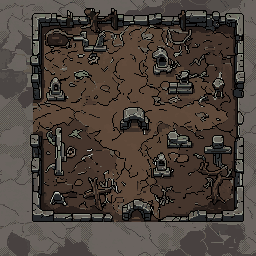
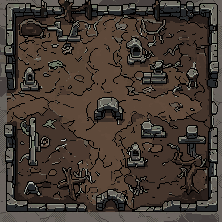
feat(ruinarch+): Mass Grave has its own look (walled burial pit, 4 fill stages)
The structure borrows the Cemetery prefab, so it looked identical to a
Cemetery. A walled-pit sprite is now laid over its floor (above the ground
tilemap, below walls, decorations and characters) and steps through four fill
stages as bodies are laid in it. Art loads via ModArt at gameplay time; the
overlay is removed on destruction and whenever any pooled structure object is
reset, so a real Cemetery reusing the object never shows it. Stage sprites
re-cropped to an aligned walled plot; the unused field texture is dropped.
Verified in-game: overlay present and correctly sorted, absent on a real
Cemetery (offscreen renders).

diff --git a/RuinarchPlus/Phase2/MassGraveLook.cs b/RuinarchPlus/Phase2/MassGraveLook.cs
@@ -1,0 +1,152 @@
+using System;
+using System.IO;
+using HarmonyLib;
+using Inner_Maps.Location_Structures;
+using Ruinarch.ModContent;
+using UnityEngine;
+using UnityEngine.Tilemaps;
+
+namespace RuinarchPlus.Phase2
+{
+	/// <summary>
+	/// The Mass Grave's own look. The structure borrows the Cemetery prefab (footprint,
+	/// walls, pathing), so without this it is indistinguishable from a Cemetery. A sprite of
+	/// a walled burial pit is laid over the structure's ground, and it swaps through four
+	/// fill stages (empty -> full) as bodies are laid in it (<see cref="MassGrave.fillRatio"/>).
+	///
+	/// Art ships as loose PNGs under <c>art/mass_grave/</c> and loads through the framework's
+	/// <see cref="ModArt"/> at gameplay time (never at mod load: no graphics device yet).
+	/// Structure objects are pooled and shared with real Cemeteries, so the overlay is a
+	/// separately named child that is removed on destruction and, as a safety net, whenever
+	/// any structure object is reset for reuse.
+	/// </summary>
+	internal static class MassGraveLook
+	{
+		internal const int FillStages = 4;
+		private const string OverlayName = "RuinarchPlus.MassGraveOverlay";
+		private const float LoadPixelsPerUnit = 100f;
+
+		private static readonly AccessTools.FieldRef<LocationStructureObject, TilemapRenderer> GroundRenderer =
+			AccessTools.FieldRefAccess<LocationStructureObject, TilemapRenderer>("_groundTileMapRenderer");
+
+		private static bool _warned;
+
+		internal static int StageFor(float fillRatio)
+		{
+			return Mathf.Clamp(Mathf.FloorToInt(fillRatio * FillStages), 0, FillStages - 1);
+		}
+
+		private static Sprite StageSprite(int stage)
+		{
+			string path = Path.Combine(RuinarchPlus.ModDir ?? string.Empty, "art", "mass_grave", $"mass_grave_{stage}.png");
+			return ModArt.LoadSprite(path, LoadPixelsPerUnit);
+		}
+
+		/// <summary>Create or update the overlay on <paramref name="pit"/>'s structure object.</summary>
+		internal static void Refresh(MassGrave pit)
+		{
+			try
+			{
+				LocationStructureObject obj = pit.structureObj;
+				if (obj == null || pit.hasBeenDestroyed)
+				{
+					return;
+				}
+				Sprite sprite = StageSprite(StageFor(pit.fillRatio));
+				if (sprite == null)
+				{
+					return;
+				}
+				Transform existing = obj.transform.Find(OverlayName);
+				SpriteRenderer renderer = existing != null ? existing.GetComponent<SpriteRenderer>() : Create(obj);
+				if (renderer.sprite != sprite)
+				{
+					renderer.sprite = sprite;
+				}
+				FitToFootprint(pit, obj, renderer);
+			}
+			catch (Exception e)
+			{
+				if (!_warned)
+				{
+					_warned = true;
+					RuinarchPlus.Log?.Warning("Mass Grave look could not be applied (the structure keeps its default look): " + e.Message);
+				}
+			}
+		}
+
+		/// <summary>Remove the overlay from a structure object (destruction / pool reuse).</summary>
+		internal static void Strip(LocationStructureObject obj)
+		{
+			Transform overlay = obj != null ? obj.transform.Find(OverlayName) : null;
+			if (overlay != null)
+			{
+				UnityEngine.Object.Destroy(overlay.gameObject);
+			}
+		}
+
+		private static SpriteRenderer Create(LocationStructureObject obj)
+		{
+			GameObject go = new GameObject(OverlayName);
+			go.layer = obj.gameObject.layer;
+			go.transform.SetParent(obj.transform, worldPositionStays: false);
+			SpriteRenderer renderer = go.AddComponent<SpriteRenderer>();
+			// Directly above the structure's floor, below its walls, decorations and characters.
+			TilemapRenderer ground = GroundRenderer(obj);
+			renderer.sortingLayerName = ground != null ? ground.sortingLayerName : "Area Maps";
+			renderer.sortingOrder = (ground != null ? ground.sortingOrder : 15) + 1;
+			return renderer;
+		}
+
+		// Centre on the structure's tiles and scale the pit to cover them.
+		private static void FitToFootprint(MassGrave pit, LocationStructureObject obj, SpriteRenderer renderer)
+		{
+			float minX = float.MaxValue, minY = float.MaxValue, maxX = float.MinValue, maxY = float.MinValue;
+			if (pit.tiles != null)
+			{
+				foreach (Inner_Maps.LocationGridTile tile in pit.tiles)
+				{
+					Vector3 p = tile.centeredWorldLocation;
+					minX = Mathf.Min(minX, p.x);
+					minY = Mathf.Min(minY, p.y);
+					maxX = Mathf.Max(maxX, p.x);
+					maxY = Mathf.Max(maxY, p.y);
+				}
+			}
+			Vector3 centre;
+			float extent;
+			if (minX <= maxX)
+			{
+				centre = new Vector3((minX + maxX) / 2f, (minY + maxY) / 2f, obj.transform.position.z);
+				extent = Mathf.Max(maxX - minX, maxY - minY) + 1f;
+			}
+			else
+			{
+				centre = obj.transform.position;
+				extent = Mathf.Max(obj.size.x, obj.size.y);
+			}
+			Transform t = renderer.transform;
+			t.position = centre;
+			float spriteWidth = renderer.sprite.bounds.size.x;
+			float parentScale = obj.transform.lossyScale.x == 0f ? 1f : obj.transform.lossyScale.x;
+			t.localScale = Vector3.one * (extent / spriteWidth / parentScale);
+		}
+	}
+
+	// Pool safety: a structure object reset for reuse (for example by a real Cemetery) must
+	// never keep a Mass Grave overlay.
+	[HarmonyPatch(typeof(LocationStructureObject), nameof(LocationStructureObject.Reset))]
+	internal static class MassGrave_StripOverlayOnReset
+	{
+		private static void Postfix(LocationStructureObject __instance)
+		{
+			try
+			{
+				MassGraveLook.Strip(__instance);
+			}
+			catch
+			{
+			}
+		}
+	}
+}

diff --git a/RuinarchPlus/Phase2/MassGraveFeature.cs b/RuinarchPlus/Phase2/MassGraveFeature.cs
@@ -15,15 +15,6 @@ namespace RuinarchPlus.Phase2
 	{
 		public const string Id = "ruinarch.plus.mass_grave";
 
-		// Number of fill-stage sprites shipped under art/mass_grave/ (empty -> full).
-		public const int FillStages = 4;
-
-		/// <summary>Absolute path to one of this mod's shipped art files (deployed next to the DLL).</summary>
-		public static string ArtPath(string relative)
-		{
-			return System.IO.Path.Combine(RuinarchPlus.ModDir ?? string.Empty, "art", "mass_grave", relative);
-		}
-
 		public static void Register()
 		{
 			try
@@ -35,7 +26,8 @@ namespace RuinarchPlus.Phase2
 					// Framework passes the allocated virtual STRUCTURE_TYPE into these.
 					Factory = (type, region) => new MassGrave(type, region),
 					LoadFactory = (type, region, save) => new MassGrave(region, (SaveDataManMadeStructure)save),
-					// Reuse the Cemetery's prefab/visual/footprint - no new Unity asset needed yet.
+					// Borrow the Cemetery's prefab (footprint, walls, pathing); MassGraveLook lays
+					// the Mass Grave's own pit art over it.
 					PrefabSource = STRUCTURE_TYPE.CEMETERY,
 					// A normal village building, not a demonic/player structure. No build skill:
 					// it is village infrastructure, not something placed from the demonic build menu.
@@ -50,35 +42,6 @@ namespace RuinarchPlus.Phase2
 			catch (Exception e)
 			{
 				RuinarchPlus.Log?.Error("Mass Grave registration failed: " + e);
-			}
-		}
-
-		private static bool _artChecked;
-
-		// Validate the loose-PNG art pipeline end to end (deploy -> decode -> Sprite) and
-		// warm the cache, once, on the first in-game hour. Must NOT run from OnLoad: mods load
-		// inside the game assembly's module initializer, before Unity's graphics device
-		// exists, and creating a Texture2D there crashes the player natively.
-		internal static void PreloadArtOnce()
-		{
-			if (_artChecked)
-			{
-				return;
-			}
-			_artChecked = true;
-			for (int i = 0; i < FillStages; i++)
-			{
-				string path = ArtPath(string.Format("mass_grave_{0}.png", i));
-				UnityEngine.Sprite sp = ModArt.LoadSprite(path, 256f);
-				if (sp != null)
-				{
-					RuinarchPlus.Log?.Info(string.Format("Loaded mass_grave_{0}.png ({1}x{2}px).",
-						i, (int)sp.rect.width, (int)sp.rect.height));
-				}
-				else
-				{
-					RuinarchPlus.Log?.Warning(string.Format("Mass Grave art missing: {0}", path));
-				}
 			}
 		}
 	}
@@ -99,7 +62,6 @@ namespace RuinarchPlus.Phase2
 				{
 					return;
 				}
-				MassGraveFeature.PreloadArtOnce();
 				MassGraveConstruction.HourlyCheck();
 				System.Collections.Generic.List<MassGrave> active = MassGrave.Active;
 				for (int i = active.Count - 1; i >= 0; i--)

diff --git a/RuinarchPlus/Phase2/MassGrave.cs b/RuinarchPlus/Phase2/MassGrave.cs
@@ -87,6 +87,12 @@ namespace Inner_Maps.Location_Structures
 			return true;
 		}
 
+		public override void SetStructureObject(LocationStructureObject structureObj)
+		{
+			base.SetStructureObject(structureObj);
+			global::RuinarchPlus.Phase2.MassGraveLook.Refresh(this);
+		}
+
 		public override void OnBuiltNewStructure()
 		{
 			base.OnBuiltNewStructure();
@@ -98,6 +104,7 @@ namespace Inner_Maps.Location_Structures
 		protected override void AfterStructureDestruction(Character p_responsibleCharacter = null)
 		{
 			Active.Remove(this);
+			global::RuinarchPlus.Phase2.MassGraveLook.Strip(structureObj);
 			_waitingHours.Clear();
 			base.AfterStructureDestruction(p_responsibleCharacter);
 		}
@@ -117,6 +124,7 @@ namespace Inner_Maps.Location_Structures
 		{
 			bodyCount++;
 			HauledTotal++;
+			global::RuinarchPlus.Phase2.MassGraveLook.Refresh(this);
 			if (corpse != null)
 			{
 				_waitingHours.Remove(corpse);
@@ -297,6 +305,7 @@ namespace Inner_Maps.Location_Structures
 			_waitingHours.Remove(corpse);
 			bodyCount++;
 			AbsorbedTotal++;
+			global::RuinarchPlus.Phase2.MassGraveLook.Refresh(this);
 			global::RuinarchPlus.RuinarchPlus.Log?.Info($"Mass Grave: Absorbed un-hauled {corpse.name} into the pit (bodyCount={bodyCount}).");
 		}
 	}
